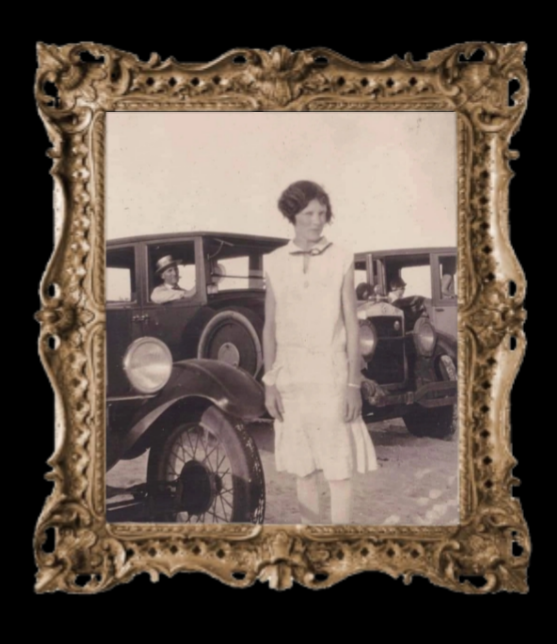
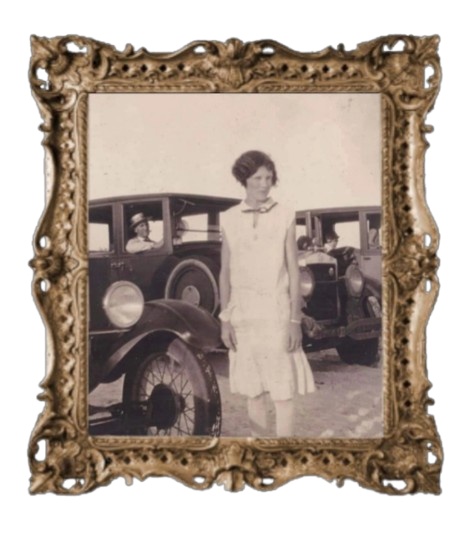
update

diff --git a/styles.css b/styles.css
@@ -31,9 +31,12 @@
   }
 
   #ephemera {
+    width: 250px;
+    height: 300px;
     float: right;
-    margin-top: 100px;
-    margin-right: -300px;
+    margin-right: -180px;
+    background-image: url(grandma.png);
+    background-size: 250px;
   }
 
   body {
@@ -256,6 +259,7 @@ p {
   }
 
 
+
   @media only screen and (max-width: 750px) {
     #navbar li a {
         font-size: 15px;
@@ -284,6 +288,7 @@ p {
     .floaters {
       display: none;
     }
+
   }
 
   @media only screen and (max-width: 500px) {

diff --git a/index.html b/index.html
@@ -24,7 +24,7 @@ href="https://webneko.net">Neko</a></h1>
 
 <div class="floaters">
 <div id="wordpad"><img src="wordpad.gif"></img></div>
-<div id="ephemera"><img src="grandma.png"></img></div>
+<div id="ephemera"></div>
 </div>
 
 
